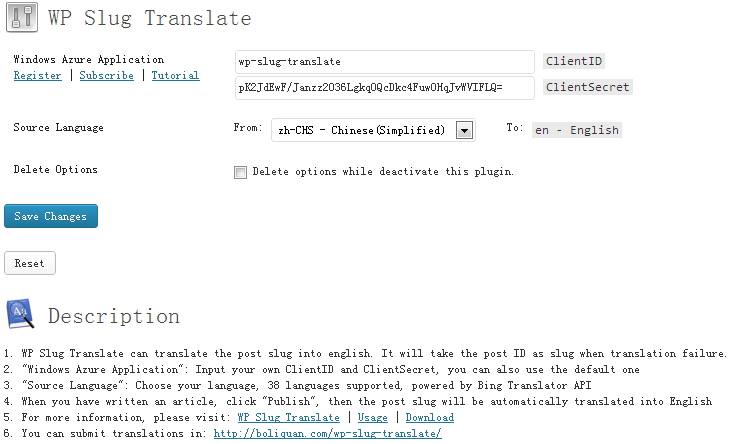
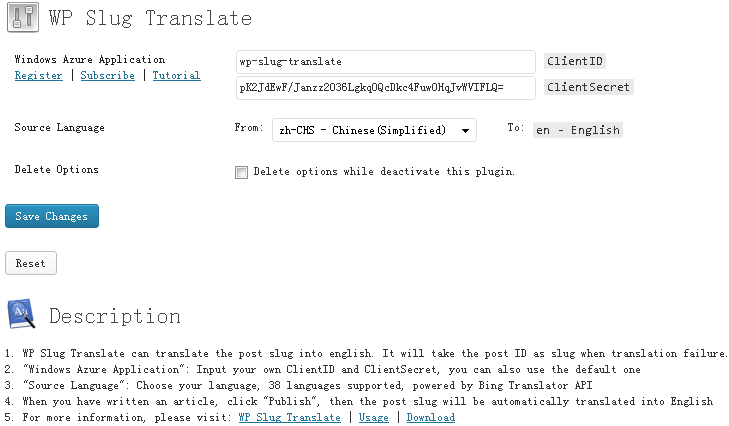
version 1.8.5

diff --git a/wp-slug-translate.php b/wp-slug-translate.php
@@ -19,110 +19,109 @@ function load_wp_slug_translate_lang(){
 	$currentLocale = get_locale();
 	if(!empty($currentLocale)){
 		$moFile = dirname(__FILE__) . "/lang/wp-slug-translate-" . $currentLocale . ".mo";
-		if(@file_exists($moFile) && is_readable($moFile)) load_textdomain('WP-Slug-Translate', $moFile);
+		if(@file_exists($moFile) && is_readable($moFile)) load_textdomain('WP-Slug-Translate',$moFile);
 	}
 }
 add_filter('init','load_wp_slug_translate_lang');
 
 class WstHttpRequest
 {
-    function curlRequest($url, $header = array(), $postData = ''){
-        $ch = curl_init();
-        curl_setopt($ch, CURLOPT_URL, $url);
-        if(!empty($header)){
-            curl_setopt($ch, CURLOPT_HTTPHEADER, $header);
-        }
-        curl_setopt($ch, CURLOPT_RETURNTRANSFER, TRUE);
-        curl_setopt($ch, CURLOPT_SSL_VERIFYPEER, FALSE);
-        if(!empty($postData)){
-            curl_setopt($ch, CURLOPT_POST, TRUE);
-            curl_setopt($ch, CURLOPT_POSTFIELDS, is_array($postData) ? http_build_query($postData) : $postData);
-        }
-        $curlResponse = curl_exec($ch);
-        curl_close($ch);
-        return $curlResponse;
-    }
+	function curlRequest($url, $header = array(), $postData = ''){
+		$ch = curl_init();
+		curl_setopt($ch, CURLOPT_URL, $url);
+		if(!empty($header)){
+			curl_setopt($ch, CURLOPT_HTTPHEADER, $header);
+		}
+		curl_setopt($ch, CURLOPT_RETURNTRANSFER, TRUE);
+		curl_setopt($ch, CURLOPT_SSL_VERIFYPEER, FALSE);
+		if(!empty($postData)){
+			curl_setopt($ch, CURLOPT_POST, TRUE);
+			curl_setopt($ch, CURLOPT_POSTFIELDS, is_array($postData) ? http_build_query($postData) : $postData);
+		}
+		$curlResponse = curl_exec($ch);
+		curl_close($ch);
+		return $curlResponse;
+	}
 }
 
 class WstBingTranslator extends WstHttpRequest
 {
-    private $_clientID = CLIENTID;
-    private $_clientSecret = CLIENTSECRET;
-    private $_fromLanguage = SOURCE;
-    private $_toLanguage = TARGET;
+	private $_clientID = CLIENTID;
+	private $_clientSecret = CLIENTSECRET;
+	private $_fromLanguage = SOURCE;
+	private $_toLanguage = TARGET;
 
-    private $_authUrl = "https://datamarket.accesscontrol.windows.net/v2/OAuth2-13/";
-    private $_scopeUrl = "http://api.microsofttranslator.com";
-    private $_grantType = "client_credentials";
+	private $_grantType = "client_credentials";
+	private $_scopeUrl = "http://api.microsofttranslator.com";
+	private $_authUrl = "https://datamarket.accesscontrol.windows.net/v2/OAuth2-13/";
 
-    private function _getTokens(){
-        try{
-            $postData = array(
-                'grant_type' => $this->_grantType,
-                'scope' => $this->_scopeUrl,
-                'client_id' => $this->_clientID,
-                'client_secret' => $this->_clientSecret
-            );
-            $header = array('User-Agent: Mozilla/5.0 (Windows NT 5.1; rv:6.0.1) Gecko/20100101 Firefox/6.0.1');
-            $response = $this->curlRequest($this->_authUrl, $header, $postData);
-            $jsonObj = json_decode($response);
-            return $jsonObj->access_token;
-        }
+	private function _getTokens(){
+		try{
+			$header = array('User-Agent: Mozilla/5.0 (Windows NT 5.1; rv:6.0.1) Gecko/20100101 Firefox/6.0.1');
+			$postData = array(
+				'grant_type' => $this->_grantType,
+				'scope' => $this->_scopeUrl,
+				'client_id' => $this->_clientID,
+				'client_secret' => $this->_clientSecret
+			);
+			$response = $this->curlRequest($this->_authUrl, $header, $postData);
+			$jsonObj = json_decode($response);
+			if(!empty($jsonObj->access_token)){
+				return $jsonObj->access_token;
+			}
+		}
 		catch(Exception $e){
-            echo "Exception-" . $e->getMessage();
-        }
-    }
+			//echo "Exception-" . $e->getMessage();
+		}
+	}
 
-    function translate($inputStr){
-        $params = "text=" . rawurlencode($inputStr) . "&from=" . $this->_fromLanguage . "&to=" . $this->_toLanguage;
-        $translateUrl = "http://api.microsofttranslator.com/v2/Http.svc/Translate?$params";
-        $accessToken = $this->_getTokens();
-        $authHeader = "Authorization: Bearer " . $accessToken;
-        $header = array($authHeader, "Content-Type: text/xml");
-        $curlResponse = $this->curlRequest($translateUrl, $header);
+	function translate($inputStr){
+		$params = "text=" . rawurlencode($inputStr) . "&from=" . $this->_fromLanguage . "&to=" . $this->_toLanguage;
+		$translateUrl = "http://api.microsofttranslator.com/v2/Http.svc/Translate?$params";
+		$accessToken = $this->_getTokens();
+		$authHeader = "Authorization: Bearer " . $accessToken;
+		$header = array($authHeader, "Content-Type: text/xml");
+		$curlResponse = $this->curlRequest($translateUrl, $header);
 		
-        $xmlObj = simplexml_load_string($curlResponse);
-        $translatedStr = '';
-        foreach((array)$xmlObj[0] as $val){
-            $translatedStr = $val;
-        }
+		$xmlObj = simplexml_load_string($curlResponse);
+		$translatedStr = '';
+		foreach((array)$xmlObj[0] as $val){
+			$translatedStr = $val;
+		}
 
-        return $translatedStr;
-    }
+		return $translatedStr;
+	}
 
 }
 
 function wp_slug_translate($postID){
 	global $wpdb;
-	$tableposts = $wpdb->posts;
-		$sql = "SELECT post_title,post_name FROM $tableposts WHERE ID=$postID";
-		$res = $wpdb->get_results($sql);	
-		$post_title = $res[0]->post_title;
-		$post_name = $res[0]->post_name;
+	$sql = "SELECT post_title,post_name FROM $wpdb->posts WHERE ID=$postID";
+	$res = $wpdb->get_results($sql);	
+	$post_title = $res[0]->post_title;
+	$post_name = $res[0]->post_name;
 
-		if( !substr_count($post_name,'%') && !is_numeric($post_name) ){
-			if(substr_count($post_name,'_')){
-				$wst_post_name = str_replace('_','-',$post_name);
-				$sql ="UPDATE ".$tableposts." SET `post_name` = '".$wst_post_name."' WHERE ID =$postID;";
-				$res = $wpdb->query($sql);
-			}
-			return true;
+	if( !substr_count($post_name,'%') && !is_numeric($post_name) ){
+		if(substr_count($post_name,'_')){
+			$wst_post_name = str_replace('_','-',$post_name);
+			$sql ="UPDATE ".$wpdb->posts." SET `post_name` = '".$wst_post_name."' WHERE ID=$postID";
+			$res = $wpdb->query($sql);
 		}
+		return true;
+	}
+
+	$post_title = str_replace(array('_','/'),array(' ',' '),$post_title);
+	$wst_bing= new WstBingTranslator();
+	$wst_title = sanitize_title( $wst_bing->translate($post_title) );
+	if( strlen($wst_title) < 2 ){
+		$wst_title = $postID;
+	}
 		
-		if(substr_count($post_title,'_')){
-			$post_title = str_replace('_',' ',$post_title);
-		}
-		$wst_bing= new WstBingTranslator();
-		$wst_title = sanitize_title( $wst_bing->translate($post_title) );
-		if( strlen($wst_title) < 2 ) {
-			$wst_title = $postID;
-		}
-		
-		$sql ="UPDATE ".$tableposts." SET `post_name` = '".$wst_title."' WHERE ID =$postID;";		
-		$res = $wpdb->query($sql);
+	$sql ="UPDATE ".$wpdb->posts." SET `post_name` = '".$wst_title."' WHERE ID=$postID";		
+	$res = $wpdb->query($sql);
 }
-add_action('publish_post', 'wp_slug_translate');
-add_action('edit_post', 'wp_slug_translate');
+add_action('publish_post', 'wp_slug_translate', 1);
+add_action('edit_post', 'wp_slug_translate', 1);
 
 function wp_slug_translate_activate(){
 	add_option('wp_slug_translate_clientid','wp-slug-translate');
@@ -149,7 +148,7 @@ function wp_slug_translate_settings_link($action_links,$plugin_file){
 	}
 	return $action_links;
 }
-add_filter('plugin_action_links','wp_slug_translate_settings_link',10,4); 
+add_filter('plugin_action_links','wp_slug_translate_settings_link',10,2); 
 
 if(is_admin()){require_once('wp_slug_translate_admin.php');}
 

diff --git a/wp_slug_translate_admin.php b/wp_slug_translate_admin.php
@@ -1,6 +1,13 @@
 <?php
 function wp_slug_translate_admin(){
 	add_options_page('WP Slug Translate Options', 'WP Slug Translate','manage_options', __FILE__, 'wp_slug_translate_page');
+	add_action('admin_init','wp_slug_translate_register');
+}
+function wp_slug_translate_register(){
+	register_setting('wst-settings','wp_slug_translate_clientid');
+	register_setting('wst-settings','wp_slug_translate_clientsecret');
+	register_setting('wst-settings','wp_slug_translate_language');
+	register_setting('wst-settings','wp_slug_translate_deactivate');
 }
 function wp_slug_translate_page(){
 	function wp_slug_translate_reset(){
@@ -22,7 +29,7 @@ function wp_slug_translate_page(){
 <h2>WP Slug Translate</h2>
 
 <form action="options.php" method="post" enctype="multipart/form-data" name="wp_slug_translate_form">
-<?php wp_nonce_field('update-options'); ?>
+<?php settings_fields('wst-settings'); ?>
 
 <table class="form-table">
 	<tr valign="top">
@@ -105,9 +112,6 @@ function wp_slug_translate_page(){
 	</tr>
 </table>
 
-<input type="hidden" name="action" value="update" />
-<input type="hidden" name="page_options" value="wp_slug_translate_clientid,wp_slug_translate_clientsecret,wp_slug_translate_language,wp_slug_translate_deactivate" />
-
 <p class="submit">
 <input type="submit" class="button-primary" name="Submit" value="<?php _e('Save Changes'); ?>" />
 </p>
@@ -132,8 +136,7 @@ function wp_slug_translate_page(){
  2. "Windows Azure Application": Input your own ClientID and ClientSecret, you can also use the default one<br />
  3. "Source Language": Choose your language, 38 languages supported, powered by Bing Translator API<br />
  4. When you have written an article, click "Publish", then the post slug will be automatically translated into English<br />
- 5. For more information, please visit: <a href="http://boliquan.com/wp-slug-translate/" target="_blank">WP Slug Translate</a> | <a href="http://wordpress.org/extend/plugins/wp-slug-translate/" target="_blank">Usage</a> | <a href="http://wordpress.org/extend/plugins/wp-slug-translate/" target="_blank">Download</a><br />
- 6. You can submit translations in: <a href="http://boliquan.com/wp-slug-translate/" target="_blank">http://boliquan.com/wp-slug-translate/</a>
+ 5. For more information, please visit: <a href="http://boliquan.com/wp-slug-translate/" target="_blank">WP Slug Translate</a> | <a href="http://wordpress.org/extend/plugins/wp-slug-translate/" target="_blank">Usage</a> | <a href="http://wordpress.org/extend/plugins/wp-slug-translate/" target="_blank">Download</a>
 </p>
 
 <div class="icon32"><img src="<?php echo $donate_url; ?>" alt="Donate" /></div>
